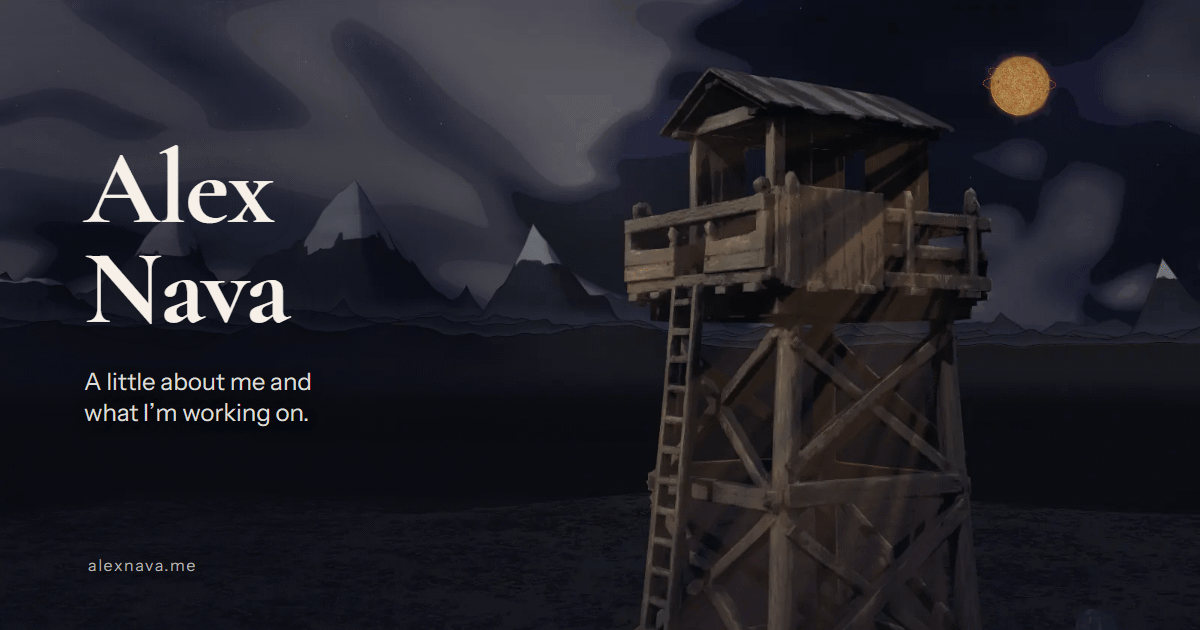
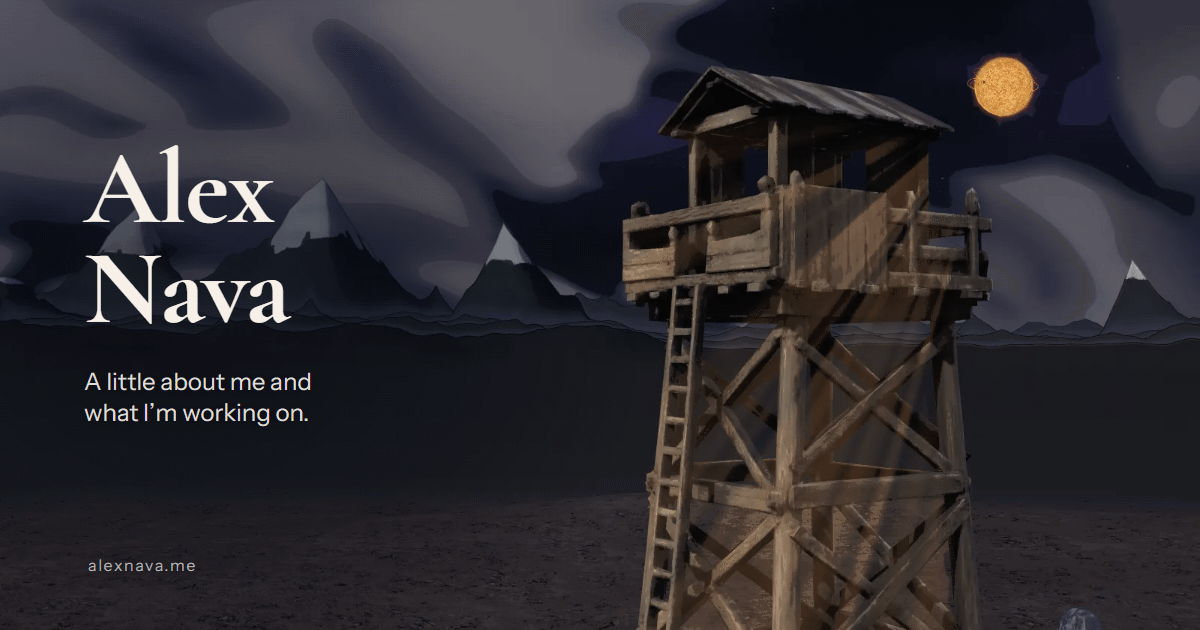
Refresh the share card from the reshaped scene
tools/og-card-backdrop.webp is a new 1600x900 still of The watch with
every page layer but the canvas hidden: the far plain's dark air and the
new banks by the sun. public/og.png is re-rendered from tools/og-card.html
at 1200x630 and quantized to a 224-colour palette with 65% Floyd-Steinberg
dither (was 55%), the most that keeps it at or under 300 KB (296,943
bytes), which softens the rings in the night's gradients. A hosting test
now holds it opaque (no alpha channel or tRNS), exactly 1200x630 as its
og:image tags say, 8-bit, and at most 300 KB.

diff --git a/tools/og-card.html b/tools/og-card.html
@@ -1,17 +1,22 @@
 <!doctype html>
 <!--
   Source for the 1200x630 social card /og.png. Not published; it reads the repo fonts and its
-  backdrop, tools/og-card-backdrop.webp (a 1600x900 still of the live scene, kept here only for this
-  card), through relative URLs. Regenerate from the repository root after a backdrop refresh
-  (msedge returns before the file is written, so wait for it, e.g. PowerShell Start-Process -Wait):
+  backdrop, tools/og-card-backdrop.webp (a 1600x900 still of the live scene's opening shot, The
+  watch, with every page layer but the canvas hidden, kept here only for this card), through
+  relative URLs. Regenerate from the repository root after a backdrop refresh (msedge returns
+  before the file is written, so wait for it, e.g. PowerShell Start-Process -Wait; any headless
+  Chromium with the same flags works):
     msedge --headless=new --disable-gpu --hide-scrollbars --allow-file-access-from-files
       --force-device-scale-factor=1 --window-size=1200,630 --virtual-time-budget=3000
       --user-data-dir=<scratch>\edge-profile --screenshot=<scratch>\og-raw.png
       file:///<repo>/tools/og-card.html
     magick <scratch>\og-raw.png -alpha off -kmeans 224 -unique-colors <scratch>\og-pal.png
-    magick <scratch>\og-raw.png -alpha off -dither FloydSteinberg -define dither:diffusion-amount=55%
+    magick <scratch>\og-raw.png -alpha off -dither FloydSteinberg -define dither:diffusion-amount=65%
       -remap <scratch>\og-pal.png -strip -define png:compression-level=9 PNG8:public/og.png
-  Keep public/og.png opaque, exactly 1200x630 and under 300 KB, then re-scrape it with LinkedIn Post Inspector.
+  The dither hides the palette's banding in the night's gradients: use the largest amount that
+  keeps the file at or under 300 KB (65% gave 297 KB; each 5% adds about 8 KB). test/hosting.test.mjs
+  holds public/og.png opaque, exactly 1200x630 and at most 300 KB. Re-scrape it with LinkedIn Post
+  Inspector after the release.
 -->
 <html lang="en">
   <head>
